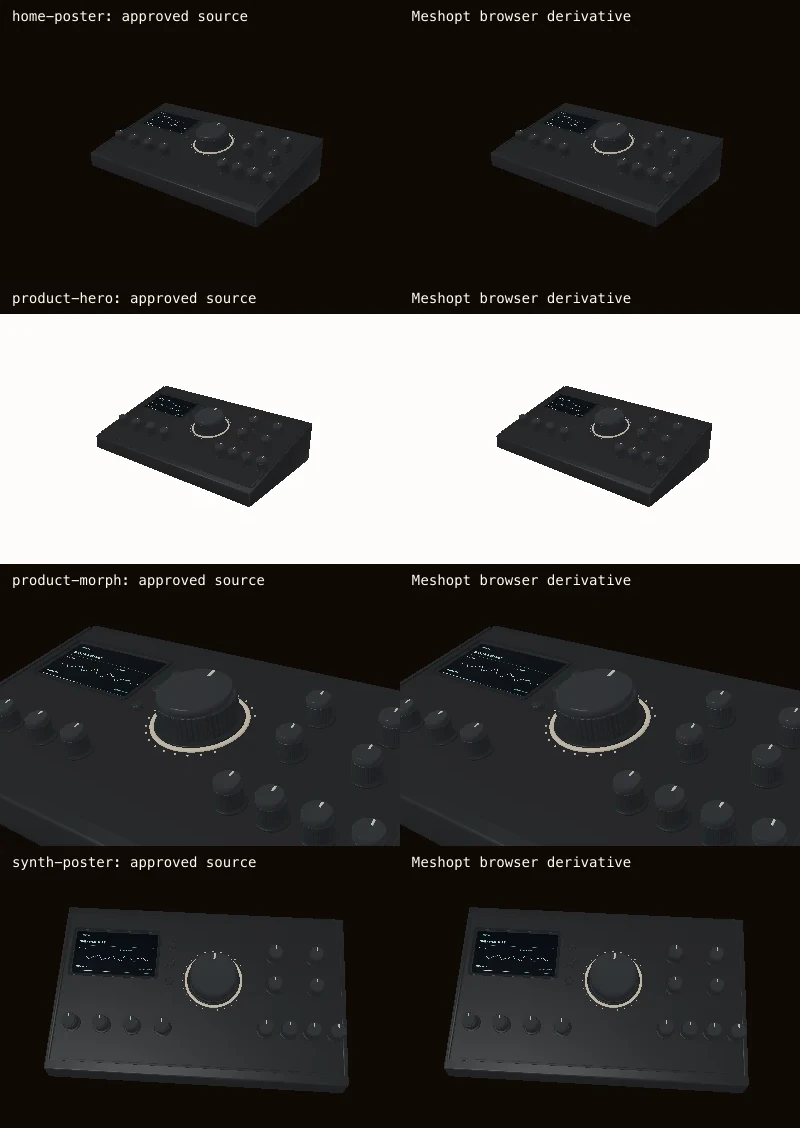
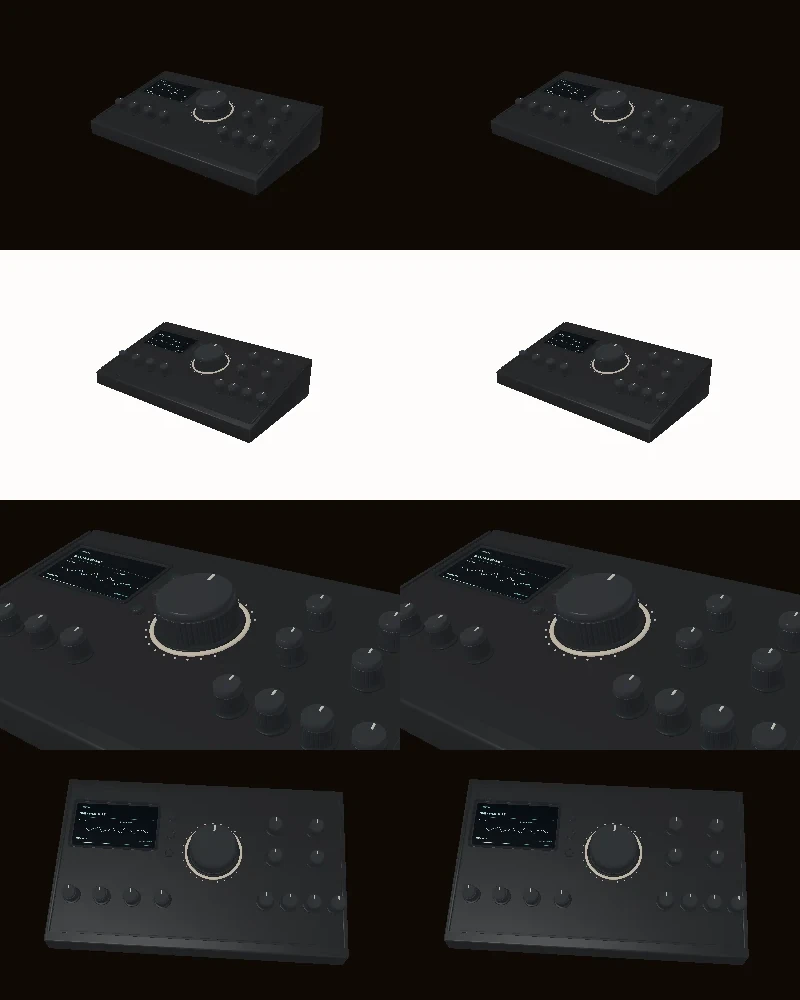
fix: make media verification portable
Keep exact checks for deterministic outputs, bound the measured libaom cross-platform variance for AVIF delivery files, and remove host-font rasterization from the visual comparison.

diff --git a/tooling/media/pipeline.ts b/tooling/media/pipeline.ts
@@ -134,6 +134,37 @@ export type GeneratedMedia = {
   outputs: OutputRecord[];
 };
 
+export type PortableImageComparison = {
+  path: string;
+  meanAbsoluteChannelDifference: number;
+  maximumChannelDifference: number;
+  changedChannelRatio: number;
+  encodedSizeDeltaRatio: number;
+  dimensionsMatch: boolean;
+};
+
+export const PORTABLE_AVIF_TOLERANCE = {
+  meanAbsoluteChannelDifference: 0.3,
+  maximumChannelDifference: 48,
+  changedChannelRatio: 0.15,
+  encodedSizeDeltaRatio: 0.15,
+} as const;
+
+export function isPortableAvifEquivalent(
+  comparison: PortableImageComparison,
+): boolean {
+  return (
+    comparison.dimensionsMatch &&
+    comparison.meanAbsoluteChannelDifference <=
+      PORTABLE_AVIF_TOLERANCE.meanAbsoluteChannelDifference &&
+    comparison.maximumChannelDifference <=
+      PORTABLE_AVIF_TOLERANCE.maximumChannelDifference &&
+    comparison.changedChannelRatio <= PORTABLE_AVIF_TOLERANCE.changedChannelRatio &&
+    comparison.encodedSizeDeltaRatio <=
+      PORTABLE_AVIF_TOLERANCE.encodedSizeDeltaRatio
+  );
+}
+
 export const APPROVED_SOURCE_SHA256 =
[1 lines of base64/hex data omitted]
 
@@ -392,20 +423,27 @@ async function buildVisualComparison({
       const runtimePath = join(temporary, `${render.id}-runtime.png`);
       await renderGlbToPng({ glb: source, camera: render.camera, light: render.light, width: tileWidth, height: tileHeight, outputPath: sourcePath });
       await renderGlbToPng({ glb: runtime, camera: render.camera, light: render.light, width: tileWidth, height: tileHeight, outputPath: runtimePath });
-      const label = Buffer.from(`<svg width="800" height="32"><rect width="800" height="32" fill="#0f0905"/><text x="12" y="21" fill="#fefcfb" font-family="monospace" font-size="14">${render.id}: approved source</text><text x="412" y="21" fill="#fefcfb" font-family="monospace" font-size="14">Meshopt browser derivative</text></svg>`);
-      rows.push(await sharp({ create: { width: 800, height: 282, channels: 3, background: "#0f0905" } })
+      rows.push(await sharp({
+        create: { width: 800, height: tileHeight, channels: 3, background: "#0f0905" },
+      })
         .composite([
-          { input: label, top: 0, left: 0 },
-          { input: sourcePath, top: 32, left: 0 },
-          { input: runtimePath, top: 32, left: 400 },
+          { input: sourcePath, top: 0, left: 0 },
+          { input: runtimePath, top: 0, left: tileWidth },
         ])
         .webp({ quality: 88, effort: 6 })
         .toBuffer());
     }
     const target = outputLocation(root, stagingRoot, comparisonPath);
     mkdirSync(dirname(target), { recursive: true });
-    await sharp({ create: { width: 800, height: rows.length * 282, channels: 3, background: "#0f0905" } })
-      .composite(rows.map((input, index) => ({ input, top: index * 282, left: 0 })))
+    await sharp({
+      create: {
+        width: tileWidth * 2,
+        height: rows.length * tileHeight,
+        channels: 3,
+        background: "#0f0905",
+      },
+    })
+      .composite(rows.map((input, index) => ({ input, top: index * tileHeight, left: 0 })))
       .webp({ quality: 90, effort: 6 })
       .toFile(target);
   } finally {
@@ -657,6 +695,84 @@ function serialized(value: unknown): string {
   return `${JSON.stringify(value, null, 2)}\n`;
 }
 
+type ManifestAsset = {
+  path: string;
+  mediaType: string;
+  sha256: string;
+  bytes: number;
+};
+
+function normalizePortableAvifIdentities(
+  actual: Record<string, unknown>,
+  expected: Record<string, unknown>,
+): Record<string, unknown> {
+  const normalized = structuredClone(actual);
+  for (const key of ["outputs", "assets"] as const) {
+    const actualAssets = normalized[key];
+    const expectedAssets = expected[key];
+    if (!Array.isArray(actualAssets) || !Array.isArray(expectedAssets)) continue;
+    const expectedByPath = new Map(
+      (expectedAssets as ManifestAsset[]).map((asset) => [asset.path, asset]),
+    );
+    for (const asset of actualAssets as ManifestAsset[]) {
+      if (asset.mediaType !== "image/avif") continue;
+      const expectedAsset = expectedByPath.get(asset.path);
+      if (!expectedAsset) continue;
+      asset.sha256 = expectedAsset.sha256;
+      asset.bytes = expectedAsset.bytes;
+    }
+  }
+  return normalized;
+}
+
+async function comparePortableImage(
+  committedPath: string,
+  regeneratedPath: string,
+  path: string,
+): Promise<PortableImageComparison> {
+  const committedSize = statSync(committedPath).size;
+  const regeneratedSize = statSync(regeneratedPath).size;
+  const committed = await sharp(committedPath)
+    .ensureAlpha()
+    .raw()
+    .toBuffer({ resolveWithObject: true });
+  const regenerated = await sharp(regeneratedPath)
+    .ensureAlpha()
+    .raw()
+    .toBuffer({ resolveWithObject: true });
+  const dimensionsMatch =
+    committed.info.width === regenerated.info.width &&
+    committed.info.height === regenerated.info.height &&
+    committed.info.channels === regenerated.info.channels &&
+    committed.data.length === regenerated.data.length;
+  let totalDifference = 0;
+  let maximumChannelDifference = 0;
+  let changedChannels = 0;
+  if (dimensionsMatch) {
+    for (let index = 0; index < committed.data.length; index += 1) {
+      const difference = Math.abs(committed.data[index] - regenerated.data[index]);
+      totalDifference += difference;
+      maximumChannelDifference = Math.max(maximumChannelDifference, difference);
+      if (difference > 0) changedChannels += 1;
+    }
+  }
+  return {
+    path,
+    meanAbsoluteChannelDifference: dimensionsMatch
+      ? totalDifference / committed.data.length
+      : Number.POSITIVE_INFINITY,
+    maximumChannelDifference: dimensionsMatch
+      ? maximumChannelDifference
+      : Number.POSITIVE_INFINITY,
+    changedChannelRatio: dimensionsMatch
+      ? changedChannels / committed.data.length
+      : 1,
+    encodedSizeDeltaRatio:
+      Math.abs(committedSize - regeneratedSize) / committedSize,
+    dimensionsMatch,
+  };
+}
+
 export async function buildMedia(root: string): Promise<GeneratedMedia> {
   const generated = await generateMedia(root);
   mkdirSync(join(root, dirname(derivativeManifestPath)), { recursive: true });
@@ -669,42 +785,55 @@ export async function verifyMediaReproducibility(root: string): Promise<{
   status: "pass" | "fail";
   issues: ValidationIssue[];
   generated: GeneratedMedia;
+  portableImageComparisons: PortableImageComparison[];
 }> {
   const stagingRoot = mkdtempSync(join(tmpdir(), "vanta-media-repro-"));
   try {
     const generated = await generateMedia(root, stagingRoot);
     const issues: ValidationIssue[] = [];
+    const portableImageComparisons: PortableImageComparison[] = [];
     for (const [path, value] of [
       [derivativeManifestPath, generated.derivativeManifest],
       [mediaManifestPath, generated.mediaManifest],
     ] as const) {
-      const expected = readFileSync(join(root, path), "utf8");
-      const actual = serialized(value);
-      if (expected !== actual) {
+      const expectedText = readFileSync(join(root, path), "utf8");
+      const expected = JSON.parse(expectedText) as Record<string, unknown>;
+      const actual = serialized(normalizePortableAvifIdentities(value, expected));
+      if (expectedText !== actual) {
         issues.push({ code: "manifest_not_reproducible", message: `${path} differs from a clean generated manifest`, path });
       }
     }
     for (const output of generated.outputs) {
       const committedPath = join(root, output.path);
-      if (statSync(committedPath).size !== output.bytes || sha256(readFileSync(committedPath)) !== output.sha256) {
-        if (output.mediaType.startsWith("image/")) {
-          const committed = await sharp(committedPath).ensureAlpha().raw().toBuffer({ resolveWithObject: true });
-          const regenerated = await sharp(join(stagingRoot, output.path)).ensureAlpha().raw().toBuffer({ resolveWithObject: true });
-          let totalDifference = 0;
-          let maximumDifference = 0;
-          let changedChannels = 0;
-          for (let index = 0; index < committed.data.length; index += 1) {
-            const difference = Math.abs(committed.data[index] - regenerated.data[index]);
-            totalDifference += difference;
-            maximumDifference = Math.max(maximumDifference, difference);
-            if (difference > 0) changedChannels += 1;
-          }
-          console.error(`[DEBUG-media-equivalence] ${output.path} committed=${statSync(committedPath).size} regenerated=${output.bytes} mean=${totalDifference / committed.data.length} max=${maximumDifference} changed=${changedChannels}/${committed.data.length} dimensions=${committed.info.width}x${committed.info.height}:${regenerated.info.width}x${regenerated.info.height}`);
-        }
-        issues.push({ code: "output_not_reproducible", message: `${output.path} differs from a clean generated output`, path: output.path });
+      if (
+        statSync(committedPath).size === output.bytes &&
+        sha256(readFileSync(committedPath)) === output.sha256
+      ) {
+        continue;
       }
+      if (output.mediaType === "image/avif") {
+        const comparison = await comparePortableImage(
+          committedPath,
+          join(stagingRoot, output.path),
+          output.path,
+        );
+        portableImageComparisons.push(comparison);
+        if (isPortableAvifEquivalent(comparison)) continue;
+        issues.push({
+          code: "portable_image_not_equivalent",
+          message: `${output.path} exceeds the cross-platform AVIF tolerance`,
+          path: output.path,
+        });
+        continue;
+      }
+      issues.push({ code: "output_not_reproducible", message: `${output.path} differs from a clean generated output`, path: output.path });
     }
-    return { status: issues.length === 0 ? "pass" : "fail", issues, generated };
+    return {
+      status: issues.length === 0 ? "pass" : "fail",
+      issues,
+      generated,
+      portableImageComparisons,
+    };
   } finally {
     rmSync(stagingRoot, { recursive: true, force: true });
   }

diff --git a/tests/media/pipeline.test.ts b/tests/media/pipeline.test.ts
@@ -5,7 +5,12 @@ import { join } from "node:path";
 import { afterEach, describe, expect, it } from "vitest";
 
 import { calculateSceneStats, parseGlb, sha256 } from "@/tooling/media/glb";
-import { validateApprovedSource } from "@/tooling/media/pipeline";
+import {
+  isPortableAvifEquivalent,
+  PORTABLE_AVIF_TOLERANCE,
+  validateApprovedSource,
+  type PortableImageComparison,
+} from "@/tooling/media/pipeline";
 
 const temporaryRoots: string[] = [];
 
@@ -66,6 +71,33 @@ describe("governed media pipeline", () => {
       ]),
     );
     expect(result.validator.acceptedFindings).toEqual([]);
+  });
+
+  it("bounds cross-platform AVIF variance without accepting recipe drift", () => {
+    const atBoundary: PortableImageComparison = {
+      path: "public/media/stills/example.avif",
+      dimensionsMatch: true,
+      ...PORTABLE_AVIF_TOLERANCE,
+    };
+
+    expect(isPortableAvifEquivalent(atBoundary)).toBe(true);
+    for (const metric of [
+      "meanAbsoluteChannelDifference",
+      "maximumChannelDifference",
+      "changedChannelRatio",
+      "encodedSizeDeltaRatio",
+    ] as const) {
+      expect(
+        isPortableAvifEquivalent({
+          ...atBoundary,
+          [metric]: PORTABLE_AVIF_TOLERANCE[metric] + 0.001,
+        }),
+        metric,
+      ).toBe(false);
+    }
+    expect(
+      isPortableAvifEquivalent({ ...atBoundary, dimensionsMatch: false }),
+    ).toBe(false);
   });
 
   it("pins the accepted conservative Meshopt output", () => {

diff --git a/tooling/media/cli.ts b/tooling/media/cli.ts
@@ -154,6 +154,7 @@ async function verify(): Promise<number> {
     comparedOutputs: generated.outputs.length,
     manifests: [mediaPaths.derivativeManifest, mediaPaths.mediaManifest],
     cleanStagingRun: true,
+    portableImageComparisons: result.portableImageComparisons,
   }, result.issues);
   report("media-resource-budgets", startedAt, budgetIssues.length === 0 ? "pass" : "fail", {
     runtimeGlbBytes: browserModel?.bytes ?? null,

diff --git a/media/README.md b/media/README.md
@@ -7,10 +7,12 @@ This directory owns the immutable approved geometry source, versioned render/cro
 ```bash
 pnpm validate:media-source # checksum, glTF, bounds, hierarchy, texture/GPU checks
 pnpm build:media           # regenerate the browser GLB, masters, stills, comparison, manifests
-pnpm validate:media        # regenerate in a clean temporary tree and byte-compare every output
+pnpm validate:media        # regenerate in a clean temporary tree and verify every output
 ```
 
 `pnpm build:media` is intentionally fail-closed. It first verifies the immutable source at `media/source/VANTA_MONOLITH_v03D.glb`, then reproduces the accepted conservative Meshopt model with glTF Transform 4.5.1. It does not flatten, join, instance, simplify, palette-convert, or recompress textures. It renders the approved source offline with the repository-owned software rasterizer and versioned camera/light/crop settings in `media/pipeline.json`; no browser, Figma-hosted image, or donor-prototype asset is used as a master.
+
+Clean verification requires byte-identical models, PNG masters, WebP delivery variants, and the visual comparison. AVIF encoding is the sole portable exception: libaom produces CPU-dependent bytes even under the pinned Sharp/libvips toolchain. The gate therefore requires identical dimensions and manifest provenance, then bounds decoded mean/max channel error, changed-channel ratio, and encoded-size variance. The committed AVIF hashes remain the production identities; the tolerance only permits measured cross-platform encoder variance and fails recipe, dimension, or material visual drift.
 
 The committed outputs are:
 

diff --git a/docs/evidence/issue-59/README.md b/docs/evidence/issue-59/README.md
@@ -9,9 +9,9 @@ This directory indexes branch-level implementation evidence. It does not claim c
 | Approved-source and required-node validation | `artifacts/reports/glb-validation.json` from `pnpm validate:media-source` | Pass under the documented hash-scoped source finding policy |
[2 lines of base64/hex data omitted]
-| Clean-run reproducibility | `artifacts/reports/media-reproducibility.json` from `pnpm validate:media` | 22 outputs and both manifests reproduced byte-for-byte |
+| Clean-run reproducibility | `artifacts/reports/media-reproducibility.json` from `pnpm validate:media` | 22 outputs and both manifests reproduced; deterministic outputs matched byte-for-byte and AVIFs stayed within the recorded portable encoder tolerance |
 | Resource ceilings | `artifacts/reports/media-resource-budgets.json` | Pass |
-| Source/runtime visual comparison | [`visual-comparison.webp`](visual-comparison.webp) | Four versioned cameras, approved source at left and Meshopt derivative at right |
+| Source/runtime visual comparison | [`visual-comparison.webp`](visual-comparison.webp) | Four versioned cameras, approved source at left and Meshopt derivative at right; the text-free image keeps regeneration independent of host fonts |
 
 ## Measured results
 
